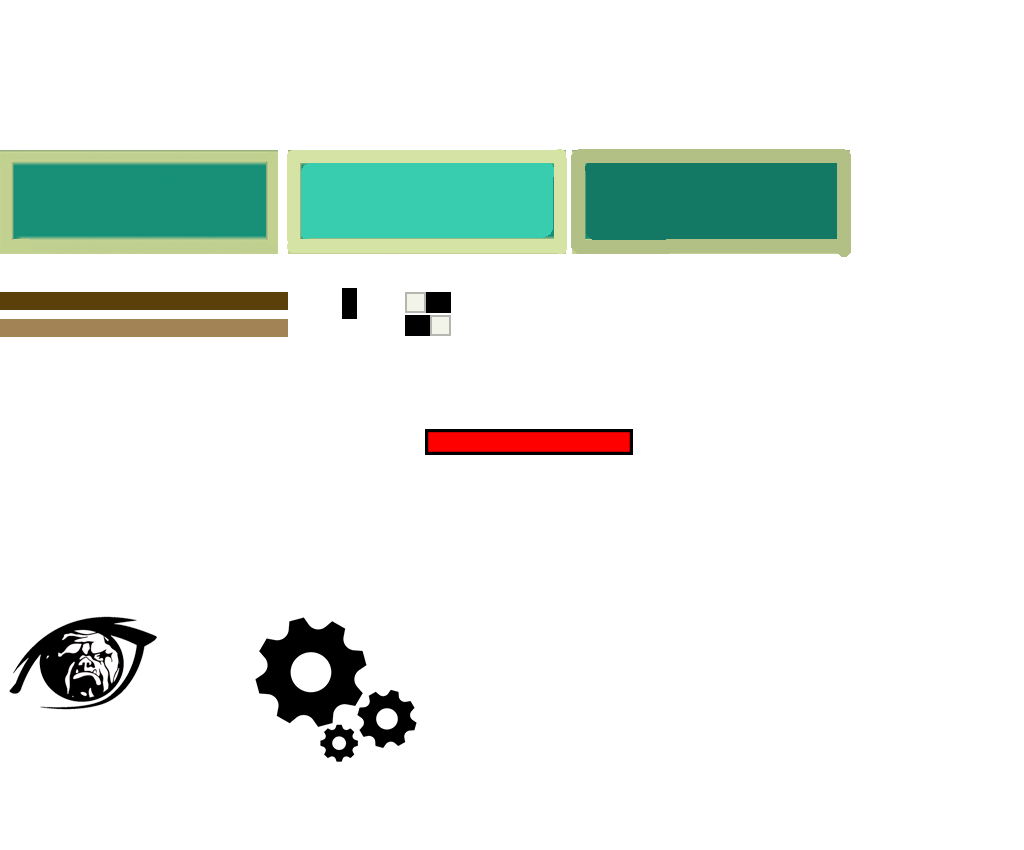
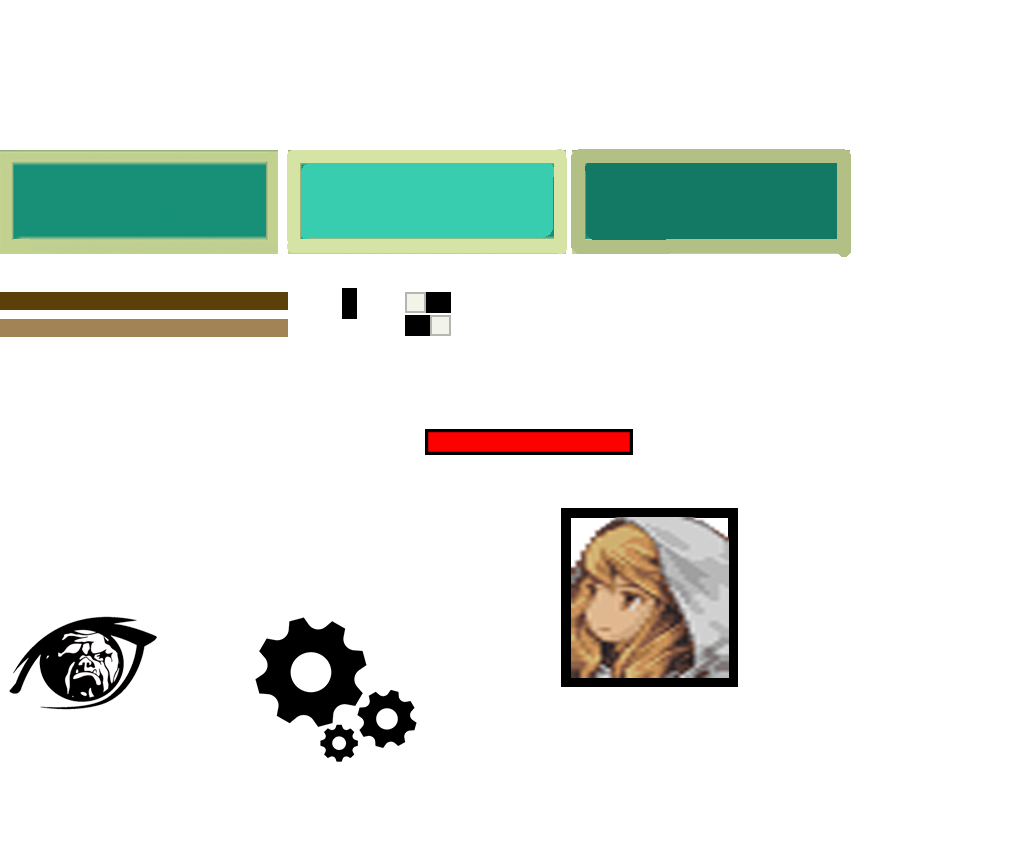
Working on champion selection menu

Changed region(s): [[0.5312, 0.5812, 0.7188, 0.8259]]

diff --git a/FantasyBrawl_Project/Motor2D/j1UIScene.cpp b/FantasyBrawl_Project/Motor2D/j1UIScene.cpp
@@ -128,13 +128,17 @@ bool j1UIScene::Start()
 
 	menu* championSelection = new menu(SELECTION_MENU);
 	{
-		UI_element* selection_window = App->gui->createWindow(51 * App->gui->UI_scale, 93 * App->gui->UI_scale, App->tex->Load("gui/big_parchment.png"), { 0,0,923,581 }, this);
-		UI_element* settings_text = App->gui->createText("CHAMPION SELECTION", 425, 120, big_buttons_font, brown_color);
-		settings_text->setOutlined(true);
+		UI_element* selection_image = App->gui->createImage(0, 0, App->tex->Load("gui/big_parchment.png"), this);
+		UI_element* selection_text = App->gui->createText("CHAMPION SELECTION", 275, 60, big_buttons_font, brown_color);
+		selection_text->setOutlined(true);
+
+		UI_element* champion_button = App->gui->createButton(300 * App->gui->UI_scale, 250 * App->gui->UI_scale, NULL, { 560,507,180,180 }, { 560,507,180,180 }, { 560,507,180,180 }, this);
+		champion_button->function = INGAME;
 
 
-
-		championSelection->elements.push_back(selection_window);
+		championSelection->elements.push_back(selection_image);
+		championSelection->elements.push_back(selection_text);
+		championSelection->elements.push_back(champion_button);
 		menus.push_back(championSelection);
 	}
 
@@ -258,7 +262,7 @@ bool j1UIScene::Update(float dt)
 		{
 			App->on_GamePause = true;
 			actual_menu = PAUSE_MENU;
-			App->transition->menuTransition(PAUSE_MENU);
+			App->transition->menuTransition(PAUSE_MENU, 0.3f);
 			ret = true;
 
 		}
@@ -266,9 +270,15 @@ bool j1UIScene::Update(float dt)
 		{
 			App->on_GamePause = false;
 			actual_menu = INGAME_MENU;
-			App->transition->menuTransition(INGAME_MENU);
+			App->transition->menuTransition(INGAME_MENU, 0.3f);
 			ret = true;
 
+		}
+		else if (actual_menu == SELECTION_MENU)
+		{
+			actual_menu = START_MENU;
+			App->transition->menuTransition(START_MENU, 0.3f);
+			ret = true;
 		}
 	}
 		
@@ -310,6 +320,12 @@ bool j1UIScene::OnUIEvent(UI_element* element, event_type event_type)
 		switch (element->function)
 		{
 		case NEW_GAME:
+		{
+			actual_menu = SELECTION_MENU;
+			App->transition->menuTransition(SELECTION_MENU, 0.3);
+			break;
+		}
+		case INGAME:
 		{
 			actual_menu = INGAME_MENU;
 			App->transition->menuTransition(INGAME_MENU, 0.3);

diff --git a/FantasyBrawl_Project/Motor2D/UI_element.h b/FantasyBrawl_Project/Motor2D/UI_element.h
@@ -27,6 +27,7 @@ enum element_function
 {
 	NONE,
 	NEW_GAME,
+	INGAME,
 	CONTINUE,
 	SETTINGS,
 	CREDITS,
